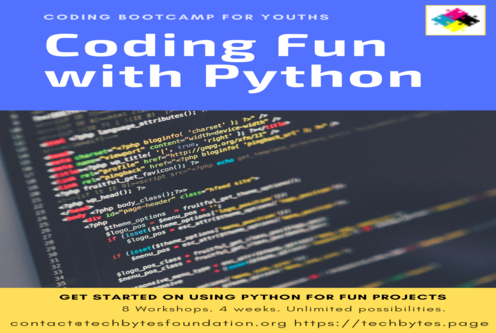
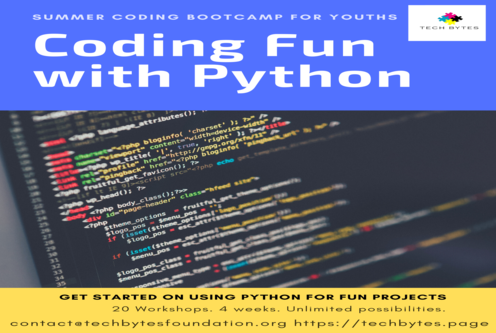
Summer workshop changes

Changed region(s): [[0.0605, 0.0901, 0.8468, 0.3003], [0.0605, 0.0, 0.998, 0.1201], [0.2117, 0.9009, 0.2419, 0.9309]]

diff --git a/index.html b/index.html
@@ -213,17 +213,51 @@
 			  </div>
 			</div>
 			
-			<img src="https://techbytesmeet.github.io/img/portfolio/0002_tbw2_embedded.png" class="img-responsive" alt="">
+			<img src="https://techbytesmeet.github.io/img/portfolio/0002_tbw2_python_data.png" class="img-responsive" alt="">
 		  </a>
 		  <div class="portfolio-caption">
    <a href="#portfolioModal12" class="portfolio-link" data-toggle="modal">
-			<h4>Embedded Systems Basics</h4>
+			<h4>Python &amp; Data Science</h4>
 			<p class="text-muted">Applied Creativity</p></a>
 		  </div>
 		</div>
 	  
 		<div class="col-md-4 col-sm-6 portfolio-item">
-		  <a href="#portfolioModal13" class="portfolio-link" data-toggle="modal">
+		  <a href="#portfolioModal121" class="portfolio-link" data-toggle="modal">
+			<div class="portfolio-hover">
+			  <div class="portfolio-hover-content">
+				<i class="fa fa-plus fa-3x"></i>
+			  </div>
+			</div>
+			
+			<img src="https://techbytesmeet.github.io/img/portfolio/0002_tbw2_digital_logic.png" class="img-responsive" alt="">
+		  </a>
+		  <div class="portfolio-caption">
+   <a href="#portfolioModal121" class="portfolio-link" data-toggle="modal">
+			<h4>Introduction to Digital Logic</h4>
+			<p class="text-muted">Applied Creativity</p></a>
+		  </div>
+		</div>
+	  
+		<div class="col-md-4 col-sm-6 portfolio-item">
+		  <a href="#portfolioModal122" class="portfolio-link" data-toggle="modal">
+			<div class="portfolio-hover">
+			  <div class="portfolio-hover-content">
+				<i class="fa fa-plus fa-3x"></i>
+			  </div>
+			</div>
+			
+			<img src="https://techbytesmeet.github.io/img/portfolio/0002_tbw2_arduino.png" class="img-responsive" alt="">
+		  </a>
+		  <div class="portfolio-caption">
+   <a href="#portfolioModal122" class="portfolio-link" data-toggle="modal">
+			<h4>Introduction to Microcontroller</h4>
+			<p class="text-muted">Applied Creativity</p></a>
+		  </div>
+		</div>
+	  
+		<div class="col-md-4 col-sm-6 portfolio-item">
+		  <a href="#portfolioModal151" class="portfolio-link" data-toggle="modal">
 			<div class="portfolio-hover">
 			  <div class="portfolio-hover-content">
 				<i class="fa fa-plus fa-3x"></i>
@@ -233,14 +267,14 @@
 			<img src="https://techbytesmeet.github.io/img/portfolio/0002_tbw1_infographics_resized.png" class="img-responsive" alt="">
 		  </a>
 		  <div class="portfolio-caption">
-   <a href="#portfolioModal13" class="portfolio-link" data-toggle="modal">
+   <a href="#portfolioModal151" class="portfolio-link" data-toggle="modal">
 			<h4>Infographics Basics</h4>
 			<p class="text-muted">Visual Story Telling</p></a>
 		  </div>
 		</div>
 	  
 		<div class="col-md-4 col-sm-6 portfolio-item">
-		  <a href="#portfolioModal14" class="portfolio-link" data-toggle="modal">
+		  <a href="#portfolioModal152" class="portfolio-link" data-toggle="modal">
 			<div class="portfolio-hover">
 			  <div class="portfolio-hover-content">
 				<i class="fa fa-plus fa-3x"></i>
@@ -250,14 +284,14 @@
 			<img src="https://techbytesmeet.github.io/img/portfolio/0002_tbw2_photoshop_resized.png" class="img-responsive" alt="">
 		  </a>
 		  <div class="portfolio-caption">
-   <a href="#portfolioModal14" class="portfolio-link" data-toggle="modal">
+   <a href="#portfolioModal152" class="portfolio-link" data-toggle="modal">
 			<h4>Image Editing Basics</h4>
 			<p class="text-muted">Visual Story Telling</p></a>
 		  </div>
 		</div>
 	  
 		<div class="col-md-4 col-sm-6 portfolio-item">
-		  <a href="#portfolioModal15" class="portfolio-link" data-toggle="modal">
+		  <a href="#portfolioModal153" class="portfolio-link" data-toggle="modal">
 			<div class="portfolio-hover">
 			  <div class="portfolio-hover-content">
 				<i class="fa fa-plus fa-3x"></i>
@@ -267,14 +301,14 @@
 			<img src="https://techbytesmeet.github.io/img/portfolio/0002_tbw3_2danimation_resized.png" class="img-responsive" alt="">
 		  </a>
 		  <div class="portfolio-caption">
-   <a href="#portfolioModal15" class="portfolio-link" data-toggle="modal">
+   <a href="#portfolioModal153" class="portfolio-link" data-toggle="modal">
 			<h4>2D Animation</h4>
 			<p class="text-muted">Visual Story Telling</p></a>
 		  </div>
 		</div>
 	  
 		<div class="col-md-4 col-sm-6 portfolio-item">
-		  <a href="#portfolioModal16" class="portfolio-link" data-toggle="modal">
+		  <a href="#portfolioModal154" class="portfolio-link" data-toggle="modal">
 			<div class="portfolio-hover">
 			  <div class="portfolio-hover-content">
 				<i class="fa fa-plus fa-3x"></i>
@@ -284,14 +318,14 @@
 			<img src="https://techbytesmeet.github.io/img/portfolio/0002_tbw4_3dprinting_resized.png" class="img-responsive" alt="">
 		  </a>
 		  <div class="portfolio-caption">
-   <a href="#portfolioModal16" class="portfolio-link" data-toggle="modal">
+   <a href="#portfolioModal154" class="portfolio-link" data-toggle="modal">
 			<h4>3D Printing</h4>
 			<p class="text-muted">Applied Creativity</p></a>
 		  </div>
 		</div>
 	  
 		<div class="col-md-4 col-sm-6 portfolio-item">
-		  <a href="#portfolioModal17" class="portfolio-link" data-toggle="modal">
+		  <a href="#portfolioModal155" class="portfolio-link" data-toggle="modal">
 			<div class="portfolio-hover">
 			  <div class="portfolio-hover-content">
 				<i class="fa fa-plus fa-3x"></i>
@@ -301,7 +335,7 @@
 			<img src="https://techbytesmeet.github.io/img/portfolio/0002_tbw5_VR_resized.png" class="img-responsive" alt="">
 		  </a>
 		  <div class="portfolio-caption">
-   <a href="#portfolioModal17" class="portfolio-link" data-toggle="modal">
+   <a href="#portfolioModal155" class="portfolio-link" data-toggle="modal">
 			<h4>Virtual Reality</h4>
 			<p class="text-muted">Applied Creativity</p></a>
 		  </div>
@@ -724,12 +758,28 @@
                   <h4 class="subheading">Topics Discussed</h4>
                 </div>
                 <div class="timeline-body">
-                  <p class="text-muted">Our <strong><a href="//youtube.com/watch?v=pIbf4EbI210&amp;list=PL9fF-UUjFyRMPh9N6tfjXzwkjSIhsVmCf">Gaming with Embedded Systems</a></strong> workshops for students of <strong>age group 13-18</strong> were held as <strong>Online workshops</strong>. We successfully conducted 9 online workshops encompassing hands on projects in <strong>Digital Circuit</strong>, <strong>Arduino</strong> and <strong>Mircobit</strong>. We also provided <strong>Introduction to Programming Languages like Javascript</strong> as part of this series. Students actively participated in these workshops and implemented their own Embedded project ideas and sent us <strong>7 completed Embedded projects</strong> which are published in our <a href="//facebook.com/groups/582980598783107/">Social Media</a>.</p>
+                  <p class="text-muted">Our <strong><a href="//m2m-s-school.thinkific.com/collections">Gaming with Embedded Systems</a></strong> workshops for students of <strong>age group 13-18</strong> were held as <strong>Online workshops</strong>. We successfully conducted 9 online workshops encompassing hands on projects in <strong>Digital Circuit</strong>, <strong>Arduino</strong> and <strong>Mircobit</strong>. We also provided <strong>Introduction to Programming Languages like Javascript</strong> as part of this series. Students actively participated in these workshops and implemented their own Embedded project ideas and sent us <strong>7 completed Embedded projects</strong> which are published in our <a href="//facebook.com/groups/582980598783107/">Social Media</a>.</p>
                 </div>
               </div>
             </li>
           
             <li >
+              <div class="timeline-image">
+                
+                <img class="img-circle img-responsive" src="https://techbytesmeet.github.io/img/about/0006.png" alt="">
+              </div>
+              <div class="timeline-panel">
+                <div class="timeline-heading">
+                  <h4>CODE PYTHON</h4>
+                  <h4 class="subheading">Topics Discussed</h4>
+                </div>
+                <div class="timeline-body">
+                  <p class="text-muted">Our <strong><a href="//eventbrite.ca/o/tech-bytes-team-18697594347">Coding Fun with Python</a></strong> workshops for students of <strong>age group 13-18</strong> were held as <strong>Online workshops</strong>. We successfully conducted 10 online workshops encompassing hands on Python projects in <strong>Graphics</strong>, <strong>Animation</strong> and <strong>Gaming</strong>. We also walked through <strong>the concepts of code repository tools like GitHub</strong> as part of this series. Students actively participated in these workshops and implemented their own Python project ideas and sent us <strong>21 completed Python projects</strong> which are published in our <a href="//facebook.com/groups/582980598783107/">Social Media</a>.</p>
+                </div>
+              </div>
+            </li>
+          
+            <li class="timeline-inverted" >
               <div class="timeline-image">
                 
                 <img class="img-circle img-responsive" src="https://techbytesmeet.github.io/img/about/0004.png" alt="">
@@ -745,15 +795,15 @@
               </div>
             </li>
           
-            <li class="timeline-inverted" >
+            <li >
               <div class="timeline-image">
                 
-                <img class="img-circle img-responsive" src="https://techbytesmeet.github.io/img/about/0006.png" alt="">
+                <img class="img-circle img-responsive" src="https://techbytesmeet.github.io/img/about/0007.png" alt="">
               </div>
               <div class="timeline-panel">
                 <div class="timeline-heading">
                   <h4>What&#39;s NEXT</h4>
-                  <h4 class="subheading">Code Python</h4>
+                  <h4 class="subheading">Code Summer</h4>
                 </div>
                 <div class="timeline-body">
                   <p class="text-muted">Currently we are accepting registration for our <a href="//eventbrite.ca/o/tech-bytes-team-18697594347">Coding Fun with Python</a> workshops where we will go through <strong>few fun Coding projects with Python</strong>. Contact us for more information!</p>
@@ -918,28 +968,23 @@
               <p><p>Coding Fun With Python - <a href="//eventbrite.ca/o/tech-bytes-team-18697594347"><strong>ACCEPTING REGISTRATION NOW</strong></a></p>
 <p>Through our hands-on-workshops, Tech Bytes team is committed to empowering youths with much needed <!-- raw HTML omitted -->
 digital literacy skills. Throughout this year, we will conduct workshops on topics like <strong>Embedded System, Cloud Computing, Internet of Things (IoT) and Artificial Intelligence (AI).</strong></p>
-<p><strong>Our second series of workshops is on Introduction to Python.</strong></p>
-<p><strong>Basics of Python - Book your spot <a href="//bit.ly/tbpythonbasics">here</a></strong></p>
-<pre><code>  May 23 2 p.m - 3 p.m &amp;
-  May 24 2 p.m - 3 p.m
+<p><strong>For this summer, we are offering 80 Python workshops - 2 Beginner level workshop series and 2 Intermediate level workshop series</strong></p>
+<p><strong>Coding Fun with Python - Beginner Level - Book your spots <a href="//eventbrite.ca/e/coding-fun-with-python-power-of-creativity-beginner-level-for-13-18-tickets-111415647200">here</a></strong></p>
+<pre><code>  Jul 6 2020 - Jul 31 2020
+  Every week day Monday - Friday
+  2 pm - 3 pm.
 </code></pre>
-<p><strong>Python and Graphics - Book your spot <a href="//bit.ly/tbpythongraphics">here</a></strong></p>
-<pre><code>  May 30 2 p.m - 3 p.m &amp;
-  May 31 2 p.m - 3 p.m
-</code></pre>
-<p><strong>Python and Animation - Book your spot <a href="//bit.ly/tbpythonanimation">here</a></strong></p>
-<pre><code>  Jun 6 2 p.m - 3 p.m &amp;
-  Jun 7 2 p.m - 3 p.m
-</code></pre>
-<p><strong>Python based Game - Book your spot <a href="//bit.ly/tbpythongame">here</a></strong></p>
-<pre><code>  Jun 13 2 p.m - 3 p.m &amp;
-  Jun 14 2 p.m - 3 p.m
+<p>or</p>
+<p><strong>Coding Fun with Python - Beginner Level - Book your spots <a href="//eventbrite.ca/e/coding-fun-with-python-power-of-creativity-beginner-level-for-13-18-tickets-111418058412">here</a></strong></p>
+<pre><code>  Jul 6 2020 - Jul 31 2020
+  Every week day Monday - Friday
+  4 pm - 5 pm.
 </code></pre>
 <p>No prior knowledge on this topic is required for this workshop. Students need a laptop with internet connection for attending this online workshop. Targeted age group for this workshop is students of age group 13-18.</p>
 <p>For questions regarding registration please drop us an email at <a href="mailto:contact@techbytesfoundation.org">contact@techbytesfoundation.org</a> .</p>
 </p>
               <ul class="list-inline">
-                <li>Date: 2020-05-23</li>
+                <li>Date: 2020-07-06</li>
                 <li>Reference: <a href="https://www.eventbrite.ca/o/tech-bytes-team-18697594347">Book Now</a></li>
                 <li>Category: Applied Creativity</li>
               </ul>
@@ -963,24 +1008,31 @@ digital literacy skills. Throughout this year, we will conduct workshops on topi
         <div class="row">
           <div class="col-lg-8 col-lg-offset-2">
             <div class="modal-body">
-              <h2>Embedded Systems Basics</h2>
-              <p class="item-intro text-muted">Challenge your Creativity by creating a game with Embedded Systems.</p>
+              <h2>Python &amp; Data Science</h2>
+              <p class="item-intro text-muted">Challenge your Creativity by creating graphics, animation and games using Python.</p>
               
-              <img class="img-responsive img-centered" src="https://techbytesmeet.github.io/img/portfolio/0002_tbw2_embedded.png" alt="">
-              <p><p>Gaming with Embedded Systems - <a href="//youtube.com/watch?v=pIbf4EbI210&amp;list=PL9fF-UUjFyRMPh9N6tfjXzwkjSIhsVmCf"><strong>WATCH ONLINE NOW</strong></a></p>
+              <img class="img-responsive img-centered" src="https://techbytesmeet.github.io/img/portfolio/0002_tbw2_python_data.png" alt="">
+              <p><p>Coding Fun With Python - <a href="//eventbrite.ca/o/tech-bytes-team-18697594347"><strong>ACCEPTING REGISTRATION NOW</strong></a></p>
 <p>Through our hands-on-workshops, Tech Bytes team is committed to empowering youths with much needed <!-- raw HTML omitted -->
 digital literacy skills. Throughout this year, we will conduct workshops on topics like <strong>Embedded System, Cloud Computing, Internet of Things (IoT) and Artificial Intelligence (AI).</strong></p>
-<p><strong>Our first series of workshops is on basics of Embedded System.</strong></p>
-<p><strong>Basics of Digital Logic - Watch online now <a href="//youtube.com/watch?v=pIbf4EbI210&amp;list=PL9fF-UUjFyRMPh9N6tfjXzwkjSIhsVmCf">here</a></strong></p>
-<p><strong>Basics of MicroController - Watch online now <a href="//youtube.com/watch?v=r5Rsq4VxX8I&amp;list=PL9fF-UUjFyROCsuyTjbCU6DB_C6csv3RJ">here</a></strong></p>
-<p><strong>MicroBit based Project - Watch online now <a href="//youtube.com/watch?v=zXkODkXQCSw&amp;list=PL9fF-UUjFyRMU2G1jJKLQ6_4wOXxFh-4B">here</a></strong></p>
-<p><strong>MicroBit based Game - Watch online now <a href="//youtube.com/watch?v=zXkODkXQCSw&amp;list=PL9fF-UUjFyRMU2G1jJKLQ6_4wOXxFh-4B">here</a></strong></p>
-<p>No prior knowledge on this topic is required for this workshop. Students need a laptop with internet connection for attending this online workshop. Targeted age group for this workshop is students of age group 13-18.</p>
+<p><strong>For this summer, we are offering 80 Python workshops - 2 Beginner level workshop series and 2 Intermediate level workshop series</strong></p>
+<p><strong>Coding Fun with Python - Intermediate Level - Book your spots <a href="//eventbrite.ca/e/python-and-data-science-intermediate-level-for-13-18-year-old-tickets-111416473672">here</a></strong></p>
+<pre><code>  Aug 4 2020 - Aug 28 2020
+  Every week day Monday - Friday
+  2 pm - 3 pm.
+</code></pre>
+<p>or</p>
+<p><strong>Coding Fun with Python - Intermediate Level - Book your spots <a href="//eventbrite.ca/e/python-and-data-science-intermediate-level-for-13-18-year-old-tickets-111417587002">here</a></strong></p>
+<pre><code>  Aug 4 2020 - Aug 28 2020
+  Every week day Monday - Friday
+  4 pm - 5 pm.
+</code></pre>
+<p>We highly recommend taking our <strong>Coding Fun with Python</strong> workshop series as a prerequisite for this series. Students need a laptop with internet connection for attending this online workshop. Targeted age group for this workshop is students of age group 13-18.</p>
 <p>For questions regarding registration please drop us an email at <a href="mailto:contact@techbytesfoundation.org">contact@techbytesfoundation.org</a> .</p>
 </p>
               <ul class="list-inline">
-                <li>Date: 2020-04-18</li>
-                <li>Reference: <a href="//youtube.com/watch?v=pIbf4EbI210&amp;list=PL9fF-UUjFyRMPh9N6tfjXzwkjSIhsVmCf">Watch Now</a></li>
+                <li>Date: 2020-08-04</li>
+                <li>Reference: <a href="https://www.eventbrite.ca/o/tech-bytes-team-18697594347">Book Now</a></li>
                 <li>Category: Applied Creativity</li>
               </ul>
               <button type="button" class="btn btn-primary" data-dismiss="modal"><i class="fa fa-times"></i> Close project</button>
@@ -991,7 +1043,81 @@ digital literacy skills. Throughout this year, we will conduct workshops on topi
     </div>
   </div>
 
-  <div class="portfolio-modal modal fade" id="portfolioModal13" tabindex="-1" role="dialog" aria-hidden="true">
+  <div class="portfolio-modal modal fade" id="portfolioModal121" tabindex="-1" role="dialog" aria-hidden="true">
+    <div class="modal-content">
+      <div class="close-modal" data-dismiss="modal">
+        <div class="lr">
+          <div class="rl">
+          </div>
+        </div>
+      </div>
+      <div class="container">
+        <div class="row">
+          <div class="col-lg-8 col-lg-offset-2">
+            <div class="modal-body">
+              <h2>Introduction to Digital Logic</h2>
+              <p class="item-intro text-muted">Challenge your Creativity by doing hands on projects in Electronic Circuits.</p>
+              
+              <img class="img-responsive img-centered" src="https://techbytesmeet.github.io/img/portfolio/0002_tbw2_digital_logic.png" alt="">
+              <p><p>7 SEGMENT DISPLAY - <a href="//m2m-s-school.thinkific.com/courses/digital-logic"><strong>WATCH ONLINE NOW</strong></a></p>
+<p>Through our hands-on-workshops, Tech Bytes team is committed to empowering youths with much needed <!-- raw HTML omitted -->
+digital literacy skills. Throughout this year, we will conduct workshops on topics like <strong>Embedded System, Cloud Computing, Internet of Things (IoT) and Artificial Intelligence (AI).</strong></p>
+<p><strong>In this series of workshops, we will teach the basics of Digital Logic .</strong></p>
+<p><strong>Have you ever thought about understanding the fundamentals of Electronic Circuits by doing some simple hands-on activities. In this course, we will go through the basics of Digital Logic and a hands on simulated Circuit Design - 7 SEGMENT DISPLAY.</strong></p>
+<p>No prior knowledge on this topic is required for this workshop.</p>
+<p>For questions regarding registration/contents, please drop us an email at <a href="mailto:contact@techbytesfoundation.org">contact@techbytesfoundation.org</a> .</p>
+</p>
+              <ul class="list-inline">
+                <li>Date: 2020-04-18</li>
+                <li>Reference: <a href="//m2m-s-school.thinkific.com/courses/digital-logic">Watch Now</a></li>
+                <li>Category: Applied Creativity</li>
+              </ul>
+              <button type="button" class="btn btn-primary" data-dismiss="modal"><i class="fa fa-times"></i> Close project</button>
+            </div>
+          </div>
+        </div>
+      </div>
+    </div>
+  </div>
+
+  <div class="portfolio-modal modal fade" id="portfolioModal122" tabindex="-1" role="dialog" aria-hidden="true">
+    <div class="modal-content">
+      <div class="close-modal" data-dismiss="modal">
+        <div class="lr">
+          <div class="rl">
+          </div>
+        </div>
+      </div>
+      <div class="container">
+        <div class="row">
+          <div class="col-lg-8 col-lg-offset-2">
+            <div class="modal-body">
+              <h2>Introduction to Microcontroller</h2>
+              <p class="item-intro text-muted">Challenge your Creativity by creating hands on projects using Arduino.</p>
+              
+              <img class="img-responsive img-centered" src="https://techbytesmeet.github.io/img/portfolio/0002_tbw2_arduino.png" alt="">
+              <p><p>Traffic Light Project - <a href="//m2m-s-school.thinkific.com/courses/arduino"><strong>WATCH ONLINE NOW</strong></a></p>
+<p>Through our hands-on-workshops, Tech Bytes team is committed to empowering youths with much needed <!-- raw HTML omitted -->
+digital literacy skills. Throughout this year, we will conduct workshops on topics like <strong>Embedded System, Cloud Computing, Internet of Things (IoT) and Artificial Intelligence (AI).</strong></p>
+<p><strong>In this series of workshops, we will teach the basics of Microcontroller .</strong></p>
+<p><strong>Have you ever thought about understanding the fundamentals of Micro Controller by doing some simple hands-on activities. In this course, we will go through the basics of Micro Controller and a hands on simulated project - TRAFFIC LIGHT PROJECT.</strong></p>
+<p>No prior knowledge on this topic is required for this workshop.</p>
+<p>For questions regarding registration/contents, please drop us an email at <a href="mailto:contact@techbytesfoundation.org">contact@techbytesfoundation.org</a> .</p>
+</p>
+              <ul class="list-inline">
+                <li>Date: 2020-04-18</li>
+                <li>Reference: <a href="//m2m-s-school.thinkific.com/courses/arduino">Watch Now</a></li>
+                <li>Category: Applied Creativity</li>
+              </ul>
+              <button type="button" class="btn btn-primary" data-dismiss="modal"><i class="fa fa-times"></i> Close project</button>
+            </div>
+          </div>
+        </div>
+      </div>
+    </div>
+  </div>
+
+  <div class="portfolio-modal modal fade" id="portfolioModal151" tabindex="-1" role="dialog" aria-hidden="true">
     <div class="modal-content">
       <div class="close-modal" data-dismiss="modal">
         <div class="lr">
@@ -1021,7 +1147,7 @@ digital literacy skills. Throughout this year, we will conduct workshops on topi
     </div>
   </div>
 
-  <div class="portfolio-modal modal fade" id="portfolioModal14" tabindex="-1" role="dialog" aria-hidden="true">
+  <div class="portfolio-modal modal fade" id="portfolioModal152" tabindex="-1" role="dialog" aria-hidden="true">
     <div class="modal-content">
       <div class="close-modal" data-dismiss="modal">
         <div class="lr">
@@ -1051,7 +1177,7 @@ digital literacy skills. Throughout this year, we will conduct workshops on topi
     </div>
   </div>
 
-  <div class="portfolio-modal modal fade" id="portfolioModal15" tabindex="-1" role="dialog" aria-hidden="true">
+  <div class="portfolio-modal modal fade" id="portfolioModal153" tabindex="-1" role="dialog" aria-hidden="true">
     <div class="modal-content">
       <div class="close-modal" data-dismiss="modal">
         <div class="lr">
@@ -1081,7 +1207,7 @@ digital literacy skills. Throughout this year, we will conduct workshops on topi
     </div>
   </div>
 
-  <div class="portfolio-modal modal fade" id="portfolioModal16" tabindex="-1" role="dialog" aria-hidden="true">
+  <div class="portfolio-modal modal fade" id="portfolioModal154" tabindex="-1" role="dialog" aria-hidden="true">
     <div class="modal-content">
       <div class="close-modal" data-dismiss="modal">
         <div class="lr">
@@ -1111,7 +1237,7 @@ digital literacy skills. Throughout this year, we will conduct workshops on topi
     </div>
   </div>
 
-  <div class="portfolio-modal modal fade" id="portfolioModal17" tabindex="-1" role="dialog" aria-hidden="true">
+  <div class="portfolio-modal modal fade" id="portfolioModal155" tabindex="-1" role="dialog" aria-hidden="true">
     <div class="modal-content">
       <div class="close-modal" data-dismiss="modal">
         <div class="lr">
